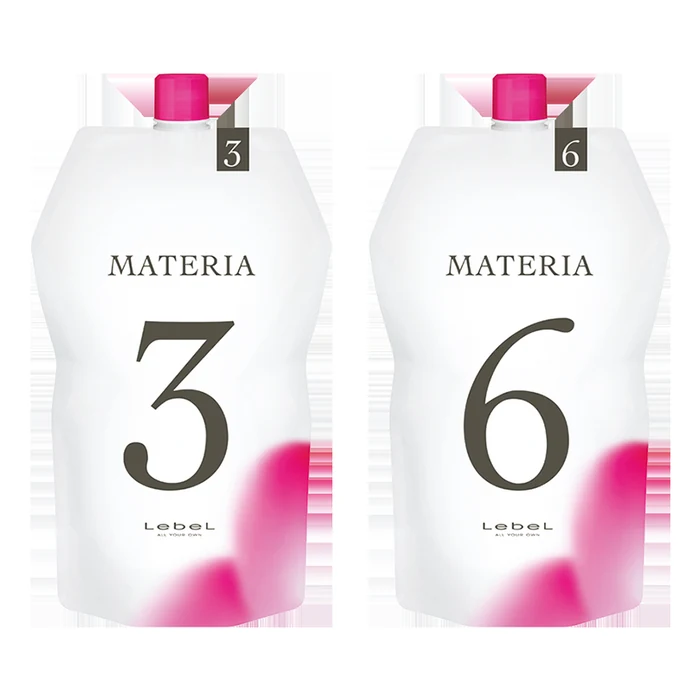
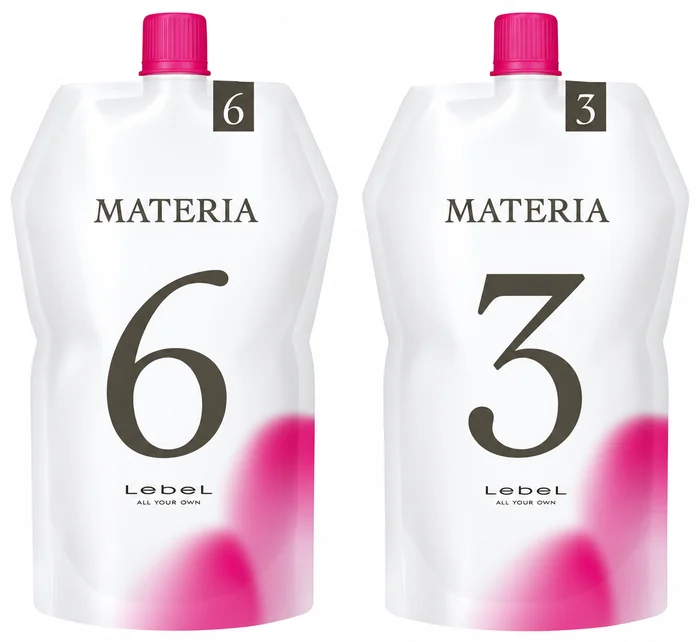
MATERIA: фото оксидантов от пользователя, материал по G и мю вынесен из статьи
Картинка оксидантов заменена на присланный PSD (склейка композита psd-tools,
обрезка по границам товара) — упаковка крупнее и читается номер.

Русскоязычные руководства по MATERIA валят все три красителя Lebel в один
текст, и из такого руководства ко мне в статью просочился факт про MATERIA G
(оттенки на 0,5-1 тон темнее классической серии). Убрано: линии разведены на
три статьи, и про G речь пойдёт в своей.

Всё собранное по G и мю сложено в docs/2026-09-11-lebel-materia-g-mu-notes.md,
чтобы не искать заново: официальные пропорции, процесс, таблица смешивания
соседних уровней с карты Takara Belmont, устройство кода, где лежат палитры.
Там же помечено, что палитру G перед использованием надо проверить так же, как
проверялась базовая, — в прежнем файле MATERIA нашлись выдуманный оттенок и
неверный код.

Claude-Session: https://claude.ai/code/session_01NkinqstRE8rfHXSEDJtFDw

diff --git a/docs/2026-09-11-lebel-materia-g-mu-notes.md b/docs/2026-09-11-lebel-materia-g-mu-notes.md
@@ -1,0 +1,55 @@
+# Заготовка для статей MATERIA G и MATERIA μ
+
+Собрано 11.09.2026 по ходу работы над статьёй о базовой MATERIA. **В ту статью это
+намеренно НЕ вошло** — правило пользователя: три красителя Lebel разделены на три статьи,
+и всё, что относится к G и μ, ждёт своей.
+
+Осторожно с источниками: русскоязычные руководства по MATERIA валят все три линии в один
+текст, и оттуда легко перетащить в статью чужой факт. Каждый пункт ниже помечен линией, к
+которой относится.
+
+## MATERIA G (седина)
+
+- Оттенки **на 0,5–1 тон темнее** классической MATERIA — то есть номер тот же, результат
+  глубже. Источник: руководство oknoinjapan.com.
+- **Стандартная пропорция 1+1** с MATERIA OXY W — официальная карта Takara Belmont
+  (`Работа/Lebel/color-charts/MATERIA-G-color-chart-takarabelmont.pdf`, текстовый слой
+  читается напрямую).
+- **Официальный процесс из восьми шагов** — на той же карте, на английском: подбор →
+  замешивание → консультация → нанесение → выдержка 30 минут → цветовая проверка →
+  эмульгирование → шампунь и уход. Плюс патч-тест за 48 часов, защитный крем на кожу и
+  сглаживающее масло. (В статье о базовой MATERIA этот процесс уже описан как общий для
+  серии — при написании G не подавать как новость.)
+- **Три shade group** с официальными формулировками: Brown Shades — натуральный цвет на
+  любой седине; Texture Shades — нюансированный цвет и anti-aging, воздушность и блеск;
+  Primary Shades — усиленный цвет «как в fashion».
+- **Таблица смешивания соседних уровней** прямо на карте: K-10 + K-8 → 2:1, O-10 + O-8 →
+  2:1, G-10 + G-8 → 3:1, M-10 + M-8 → 2:1, A-10 + A-8 → 2:1, V-10 + V-8 → 2:1,
+  P-10 + P-8 → 2:1, CA-10 + CA-8 → 2:1, R-10 + R-8 → 2:1, и такой же блок для пар 8+6.
+  Это готовые формулы промежуточных уровней — сильный материал для статьи.
+- **Код G читается иначе**: пример с карты «C9-3G → CB / тон, 3 / яркость».
+- **MATERIA G Integral Line** — отдельная подлиния, своя карта
+  (`MATERIA-G-integral-line.pdf`), код вида «Pt-4G → Pt / тон, -4 / яркость».
+- В прайсе Zilma линия идёт строками **«Краска д/волос NEW G»** (15 позиций на 11.09.2026).
+- Палитра с фото-свотчами уже собрана прежней сессией:
+  `src/data/lebel-materia-g-shades.json` + `public/images/shades/lebel-materia-g/`.
+  **Перед использованием проверить так же, как проверялась базовая MATERIA** — в её файле
+  нашлись выдуманный оттенок и неверный код, см. `scripts/build-materia-shades.py`.
+
+## MATERIA μ (мягкое тонирование)
+
+- **Пропорция 1+1 строго с OXY W 3%** — официальная карта MATERIA (легенда внизу).
+- На карте базовой MATERIA оттенки, доступные и в μ, помечены **синим квадратом** — по
+  ним и собирается палитра μ, отдельной карты в наших материалах нет.
+- **CLRμ** — прозрачный разбавитель линии, стоит в контрольной колонке карты рядом с
+  LT и LT-EX.
+- Характеристика из руководства oknoinjapan.com: полуперманентный краситель с двойной
+  дозой коллагена и эффектом ламинирования. **Проверить по официальному источнику перед
+  публикацией** — формулировка рекламная и нигде у производителя не подтверждена.
+- В прайсе Zilma идёт строками **«Краска д/волос тон µ»** (9 позиций на 11.09.2026).
+
+## Общее по серии, уже использованное в статье о MATERIA
+
+Чтобы не дублировать при написании следующих двух: буквенный код тона (тон-уровень),
+21 тоновое семейство, три пропорции по уровням (1+1 / 1+2 / 1+3), разбор оксидантов
+3 / 4,5 / 6% и приём «4,5% смешивается из 3% и 6%», расход состава, эмульгирование.

diff --git a/src/content/articles/2026-09-11-lebel-materia.md b/src/content/articles/2026-09-11-lebel-materia.md
@@ -93,7 +93,7 @@ verifiedDate: 2026-09-11
 
 ## Какой оксидант брать
 
-![MATERIA OXY W 3% и 6%](/images/articles/2026-09-11-lebel-materia/oxy.webp)
+![Оксиданты MATERIA OXY W 6% и 3%](/images/articles/2026-09-11-lebel-materia/oxy.webp)
 
 Процент оксиданта решает, насколько поднимется уровень и как ляжет цвет на седину. В линии работают три рабочих концентрации — и третью мастер делает сам.
 
@@ -172,7 +172,7 @@ verifiedDate: 2026-09-11
 
 <div class="callout"><b>Приём, который экономит длину.</b> При регулярном закрашивании седины красителем ведут только корни, а длину поддерживают тонированием или фито-ламинатом. Тогда полное окрашивание по всей длине не нужно вовсе, а корни обновляются по мере отрастания — раз в несколько месяцев вместо каждого визита.</div>
 
-Для работы, где седина — основная задача, у Lebel есть отдельная линия **MATERIA G**: оттенки в ней на 0,5–1 тон темнее классической серии, палитра и правила смешивания свои. В прайсе Zilma она идёт строками «Краска д/волос NEW G».
+Для работы, где седина — основная задача, у Lebel есть отдельная линия **MATERIA G** со своей палитрой и своими правилами смешивания. В прайсе Zilma она идёт строками «Краска д/волос NEW G» — разбор этой линии будет отдельным гидом.
 
 ## Что заказать
 
